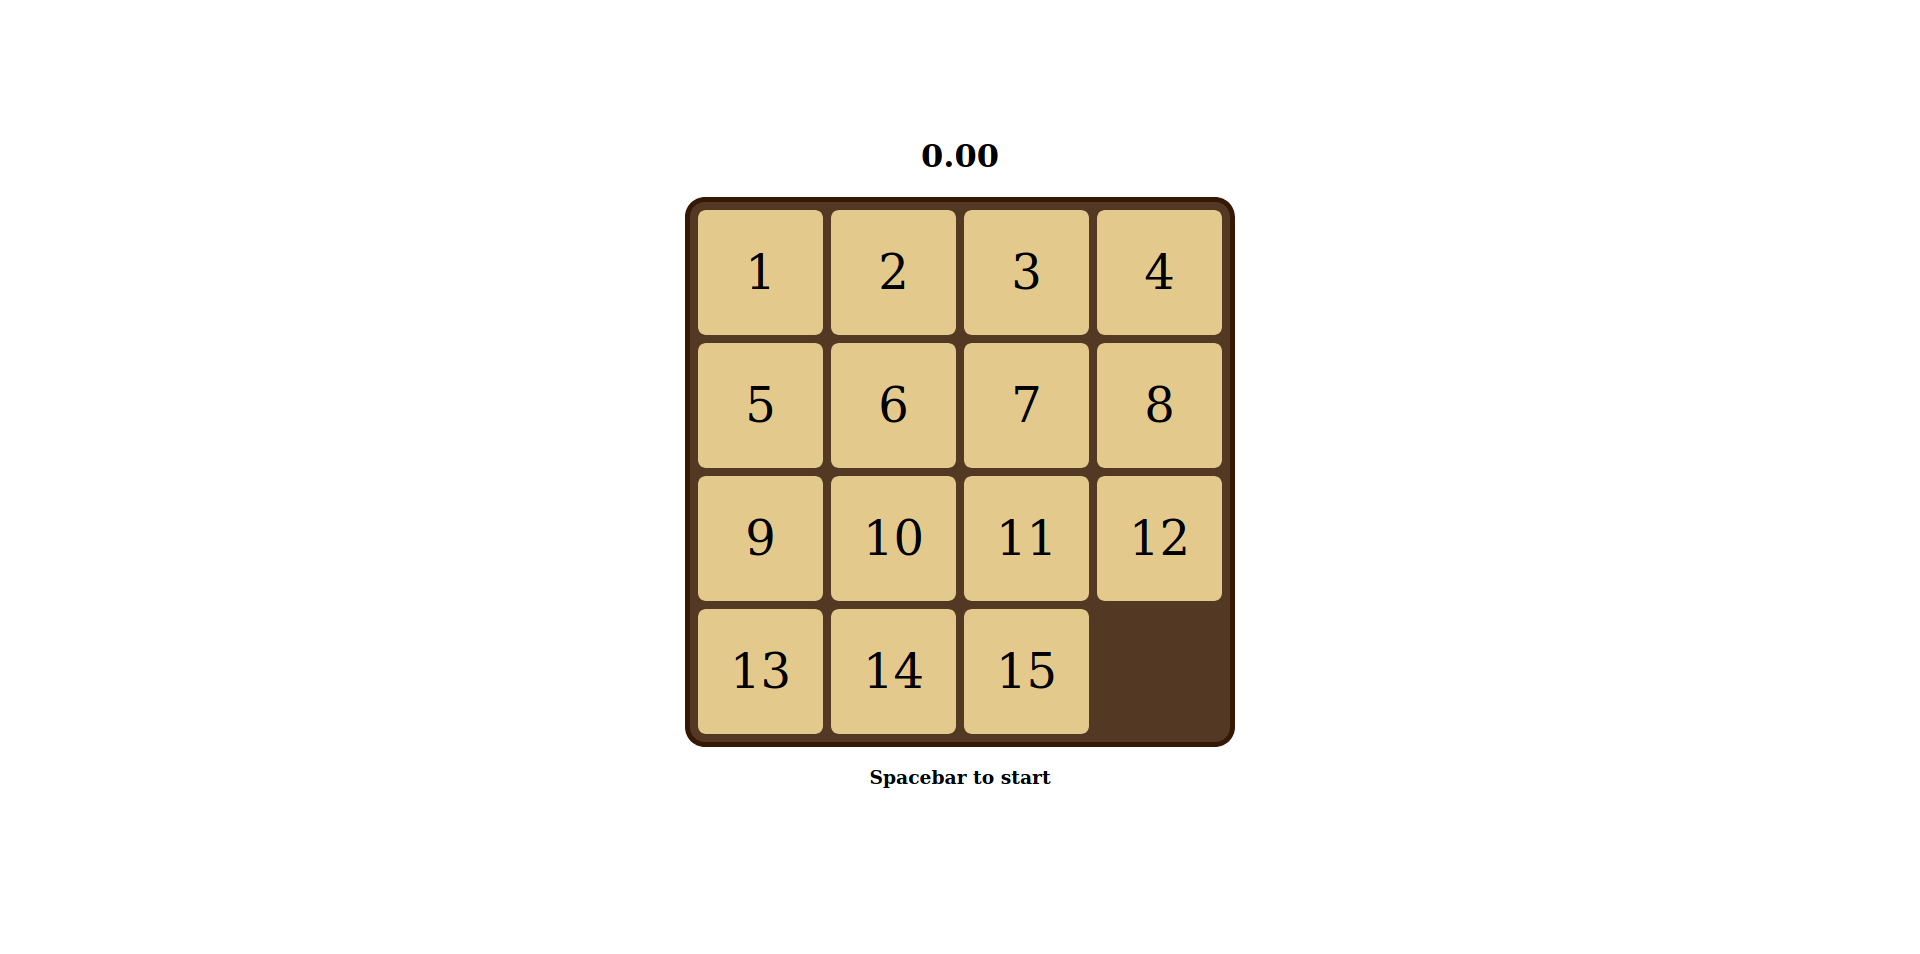
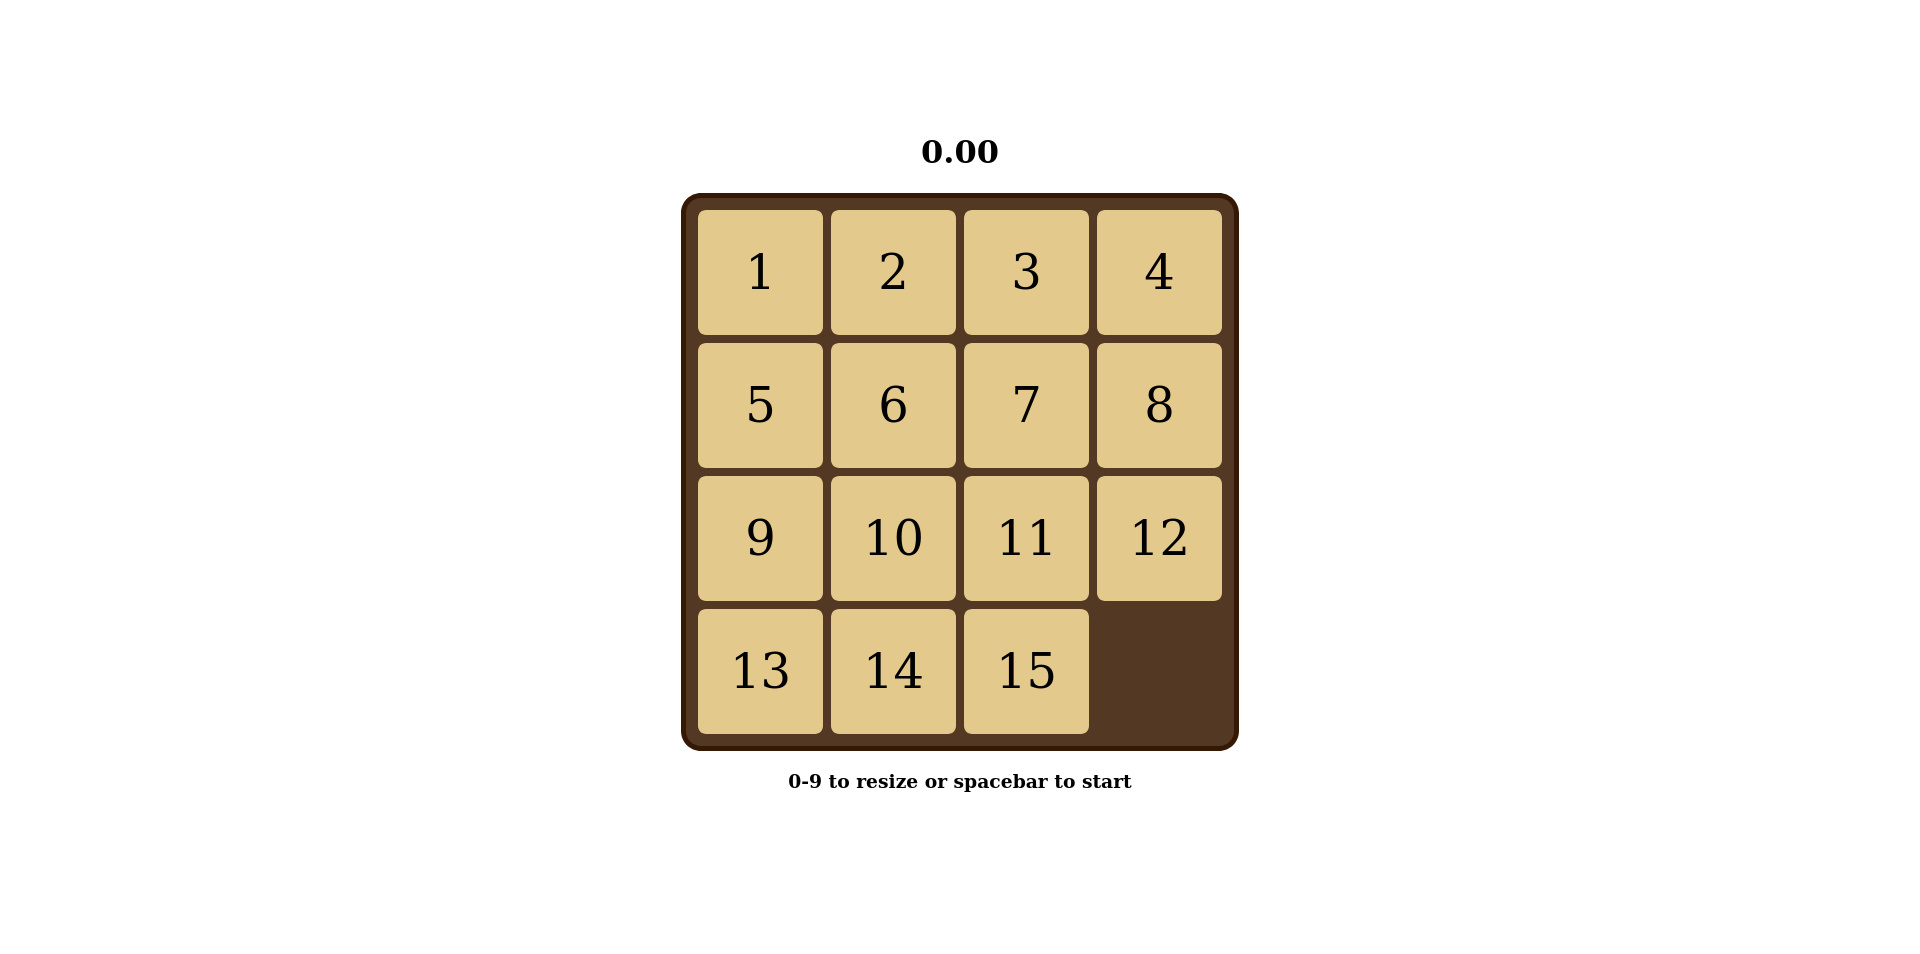
new screenshots

Changed region(s): [[0.3438, 0.152, 0.6562, 0.8512]]

diff --git a/README.md b/README.md
@@ -1,16 +1,18 @@
 # fifteen
 A simple, minimalistic 15-puzzle with support for other puzzle sizes!
 
-(actual full support coming soon™)
-
 ### Instructions
-Use the arrow keys to slide them blocks and get them back to their original
+Use the arrow keys to slide the blocks and get them back to their original
 spots.
 
-Spacebar to reset.
+Spacebar to reset, number keys 0 thru 9 to select different puzzle sizes.
 
 ## Screenshots
 
 ![](./screenshots/screenshot1.png)
 ---
 ![](./screenshots/screenshot2.png)
+---
+![](./screenshots/screenshot3.png)
+---
+![](./screenshots/screenshot4.png)
